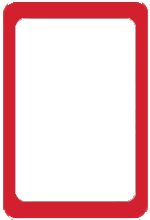
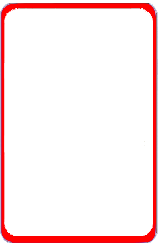
Add card border Fixed

diff --git a/Lisa.Quartets/Lisa.Quartets.Mobile/Views/CardBorderView.xaml b/Lisa.Quartets/Lisa.Quartets.Mobile/Views/CardBorderView.xaml
@@ -1,40 +1,165 @@
 <?xml version="1.0" encoding="UTF-8"?>
 <ContentPage xmlns="http://xamarin.com/schemas/2014/forms" xmlns:x="http://schemas.microsoft.com/winfx/2009/xaml" x:Class="Lisa.Quartets.Mobile.CardBorderView">
-	<ContentPage.Content>
-        <Grid Padding="5" x:Name="cardGrid">
-			<!--1st row-->
-			<BoxView WidthRequest="50" HeightRequest="100" Grid.Row="0" Grid.Column="0">
-			    <Image ClassId="card0"
-			    	Source="card.png">
-			   		<Image.GestureRecognizers>
-		    			<TapGestureRecognizer Tapped="OnImageClick" />
-		 			</Image.GestureRecognizers>
-			   	</Image>
-			</BoxView>
-			<BoxView WidthRequest="50" HeightRequest="100" Grid.Row="0" Grid.Column="1">
-			   	<Image ClassId="card1"
-			   		Source="card.png" >		
-			   		<Image.GestureRecognizers>
-		    			<TapGestureRecognizer Tapped="OnImageClick" />
-		 			</Image.GestureRecognizers> 
-			   	</Image>
-			</BoxView>
-			<BoxView WidthRequest="50" HeightRequest="100" Grid.Row="0" Grid.Column="2">
-			    <Image ClassId="card2" 
-			    	Source="card.png">		
-			   		<Image.GestureRecognizers>
-		    			<TapGestureRecognizer Tapped="OnImageClick" />
-		 			</Image.GestureRecognizers>
-			   	</Image>
-			</BoxView>
-			<BoxView WidthRequest="50" HeightRequest="100" Grid.Row="0" Grid.Column="3">
-			    <Image ClassId="card3" 
-			    	Source="card.png">		
-			   		<Image.GestureRecognizers>
-		    			<TapGestureRecognizer Tapped="OnImageClick" />
-		 			</Image.GestureRecognizers>
-			   	</Image>
-			</BoxView>
-		</Grid>
-	</ContentPage.Content>
+    <ContentPage.Content>
+        <Grid x:Name="cardGrid">
+            <!--1st row-->
+            <AbsoluteLayout HorizontalOptions="Center" Grid.Row="0" Grid.Column="0">
+                    <Image  ClassId="card0" Source="kaart1.png">
+                        <Image.GestureRecognizers>
+                            <TapGestureRecognizer Tapped="OnImageClick" />
+                        </Image.GestureRecognizers>
+                    </Image>
+            </AbsoluteLayout>
+
+            <AbsoluteLayout HorizontalOptions="Center" Grid.Row="0" Grid.Column="1">
+               
+                    <Image  ClassId="card1" Source="kaart1.png">
+                        <Image.GestureRecognizers>
+                            <TapGestureRecognizer Tapped="OnImageClick" />
+                        </Image.GestureRecognizers>
+                    </Image>
+                
+            </AbsoluteLayout>
+
+            <AbsoluteLayout HorizontalOptions="Center" Grid.Row="0" Grid.Column="2">
+               
+                    <Image  ClassId="card2" Source="kaart1.png">
+                        <Image.GestureRecognizers>
+                            <TapGestureRecognizer Tapped="OnImageClick" />
+                        </Image.GestureRecognizers>
+                    </Image>
+                
+            </AbsoluteLayout>
+
+            <AbsoluteLayout HorizontalOptions="Center" Grid.Row="0" Grid.Column="3">
+               
+                    <Image  ClassId="card3" Source="kaart1.png">
+                        <Image.GestureRecognizers>
+                            <TapGestureRecognizer Tapped="OnImageClick" />
+                        </Image.GestureRecognizers>
+                    </Image>
+                
+            </AbsoluteLayout>
+            <!--2nd row-->
+            <AbsoluteLayout HorizontalOptions="Center" Grid.Row="1" Grid.Column="0">
+               	
+                    <Image  ClassId="card4" Source="kaart1.png">
+                        <Image.GestureRecognizers>
+                            <TapGestureRecognizer Tapped="OnImageClick" />
+                        </Image.GestureRecognizers>
+                    </Image>
+                
+            </AbsoluteLayout>
+
+            <AbsoluteLayout HorizontalOptions="Center" Grid.Row="1" Grid.Column="1">
+               
+                    <Image  ClassId="card5" Source="kaart1.png">
+                        <Image.GestureRecognizers>
+                            <TapGestureRecognizer Tapped="OnImageClick" />
+                        </Image.GestureRecognizers>
+                    </Image>
+                
+            </AbsoluteLayout>
+
+            <AbsoluteLayout HorizontalOptions="Center" Grid.Row="1" Grid.Column="2">
+               
+                    <Image  ClassId="card6" Source="kaart1.png">
+                        <Image.GestureRecognizers>
+                            <TapGestureRecognizer Tapped="OnImageClick" />
+                        </Image.GestureRecognizers>
+                    </Image>
+                
+            </AbsoluteLayout>
+
+            <AbsoluteLayout HorizontalOptions="Center" Grid.Row="1" Grid.Column="3">
+               
+                    <Image  ClassId="card7" Source="kaart1.png">
+                        <Image.GestureRecognizers>
+                            <TapGestureRecognizer Tapped="OnImageClick" />
+                        </Image.GestureRecognizers>
+                    </Image>
+                
+            </AbsoluteLayout>
+            <!--3rd row-->
+            <AbsoluteLayout HorizontalOptions="Center" Grid.Row="2" Grid.Column="0">
+               
+                    <Image  ClassId="card8" Source="kaart1.png">
+                        <Image.GestureRecognizers>
+                            <TapGestureRecognizer Tapped="OnImageClick" />
+                        </Image.GestureRecognizers>
+                    </Image>
+                
+            </AbsoluteLayout>
+
+            <AbsoluteLayout HorizontalOptions="Center" Grid.Row="2" Grid.Column="1">
+               
+                    <Image  ClassId="card9" Source="kaart1.png">
+                        <Image.GestureRecognizers>
+                            <TapGestureRecognizer Tapped="OnImageClick" />
+                        </Image.GestureRecognizers>
+                    </Image>
+                
+            </AbsoluteLayout>
+
+            <AbsoluteLayout HorizontalOptions="Center" Grid.Row="2" Grid.Column="2">
+               
+                    <Image  ClassId="card10" Source="kaart1.png">
+                        <Image.GestureRecognizers>
+                            <TapGestureRecognizer Tapped="OnImageClick" />
+                        </Image.GestureRecognizers>
+                    </Image>
+                
+            </AbsoluteLayout>
+
+            <AbsoluteLayout HorizontalOptions="Center" Grid.Row="2" Grid.Column="3">
+               
+                    <Image  ClassId="card11" Source="kaart1.png">
+                        <Image.GestureRecognizers>
+                            <TapGestureRecognizer Tapped="OnImageClick" />
+                        </Image.GestureRecognizers>
+                    </Image>
+                
+            </AbsoluteLayout>
+            <!--4th row-->
+            <AbsoluteLayout HorizontalOptions="Center" Grid.Row="3" Grid.Column="0">
+               
+                    <Image  ClassId="card12" Source="kaart1.png">
+                        <Image.GestureRecognizers>
+                            <TapGestureRecognizer Tapped="OnImageClick" />
+                        </Image.GestureRecognizers>
+                    </Image>
+                
+            </AbsoluteLayout>
+
+            <AbsoluteLayout HorizontalOptions="Center" Grid.Row="3" Grid.Column="1">
+               
+                    <Image  ClassId="card13" Source="kaart1.png">
+                        <Image.GestureRecognizers>
+                            <TapGestureRecognizer Tapped="OnImageClick" />
+                        </Image.GestureRecognizers>
+                    </Image>
+                
+            </AbsoluteLayout>
+
+            <AbsoluteLayout HorizontalOptions="Center" Grid.Row="3" Grid.Column="2">
+               
+                    <Image  ClassId="card14" Source="kaart1.png">
+                        <Image.GestureRecognizers>
+                            <TapGestureRecognizer Tapped="OnImageClick" />
+                        </Image.GestureRecognizers>
+                    </Image>
+                
+            </AbsoluteLayout>
+
+            <AbsoluteLayout HorizontalOptions="Center" Grid.Row="3" Grid.Column="3">
+               
+                    <Image  ClassId="card15" Source="kaart1.png">
+                        <Image.GestureRecognizers>
+                            <TapGestureRecognizer Tapped="OnImageClick" />
+                        </Image.GestureRecognizers>
+                    </Image>
+                
+            </AbsoluteLayout>
+        </Grid>
+    </ContentPage.Content>
 </ContentPage>

diff --git a/Lisa.Quartets/Lisa.Quartets.Droid/Resources/Resource.Designer.cs b/Lisa.Quartets/Lisa.Quartets.Droid/Resources/Resource.Designer.cs
@@ -47,58 +47,64 @@ namespace Lisa.Quartets.Droid
 		{
 			
 			// aapt resource value: 0x7f020000
-			public const int card = 2130837504;
+			public const int border = 2130837504;
 			
 			// aapt resource value: 0x7f020001
-			public const int card1 = 2130837505;
+			public const int card = 2130837505;
 			
 			// aapt resource value: 0x7f020002
-			public const int card10 = 2130837506;
+			public const int card1 = 2130837506;
 			
 			// aapt resource value: 0x7f020003
-			public const int card11 = 2130837507;
+			public const int card10 = 2130837507;
 			
 			// aapt resource value: 0x7f020004
-			public const int card12 = 2130837508;
+			public const int card11 = 2130837508;
 			
 			// aapt resource value: 0x7f020005
-			public const int card13 = 2130837509;
+			public const int card12 = 2130837509;
 			
 			// aapt resource value: 0x7f020006
-			public const int card14 = 2130837510;
+			public const int card13 = 2130837510;
 			
 			// aapt resource value: 0x7f020007
-			public const int card15 = 2130837511;
+			public const int card14 = 2130837511;
 			
 			// aapt resource value: 0x7f020008
-			public const int card16 = 2130837512;
+			public const int card15 = 2130837512;
 			
 			// aapt resource value: 0x7f020009
-			public const int card2 = 2130837513;
+			public const int card16 = 2130837513;
 			
 			// aapt resource value: 0x7f02000a
-			public const int card3 = 2130837514;
+			public const int card2 = 2130837514;
 			
 			// aapt resource value: 0x7f02000b
-			public const int card4 = 2130837515;
+			public const int card3 = 2130837515;
 			
 			// aapt resource value: 0x7f02000c
-			public const int card5 = 2130837516;
+			public const int card4 = 2130837516;
 			
 			// aapt resource value: 0x7f02000d
-			public const int card6 = 2130837517;
+			public const int card5 = 2130837517;
 			
 			// aapt resource value: 0x7f02000e
-			public const int card7 = 2130837518;
+			public const int card6 = 2130837518;
 			
 			// aapt resource value: 0x7f02000f
-			public const int card8 = 2130837519;
+			public const int card7 = 2130837519;
 			
 			// aapt resource value: 0x7f020010
-			public const int card9 = 2130837520;
+			public const int card8 = 2130837520;
 			
 			// aapt resource value: 0x7f020011
-			public const int icon = 2130837521;
+			public const int card9 = 2130837521;
+			
+			// aapt resource value: 0x7f020012
+			public const int icon = 2130837522;
+			
+			// aapt resource value: 0x7f020013
+			public const int kaart1 = 2130837523;
 			
 			static Drawable()
 			{

diff --git a/Lisa.Quartets/Lisa.Quartets.Mobile/Views/CardBorderView.xaml.cs b/Lisa.Quartets/Lisa.Quartets.Mobile/Views/CardBorderView.xaml.cs
@@ -1,7 +1,8 @@
 using System;
 using System.Collections.Generic;
-using System.Linq;
+
 using Xamarin.Forms;
+using System.Linq;
 
 namespace Lisa.Quartets.Mobile
 {
@@ -26,18 +27,45 @@ namespace Lisa.Quartets.Mobile
 		private void OnImageClick(object sender, EventArgs args)
 		{	
 			var image = (Image) sender;
+			var parent = (AbsoluteLayout) image.Parent;
 
-			if (_selectedImages.Contains(image.ClassId))
+			if (IsSelected(image))
 			{
-				_selectedImages.Remove(image.ClassId);
-				image.BackgroundColor = Color.Transparent;
-
+				DeselectImage(image);
+				RemoveBorder(image);
 			}
 			else
 			{
-				_selectedImages.Add(image.ClassId);
-				image.BackgroundColor = Color.Red;
+				SelectImage(image);
+				AddBorder(image);
 			}
+		}
+
+		private bool IsSelected(Image image)
+		{
+			return _selectedImages.Contains(image.ClassId);
+		}
+
+		private void DeselectImage(Image image)
+		{
+			_selectedImages.Remove(image.ClassId);
+		}
+
+		private void SelectImage(Image image)
+		{
+			_selectedImages.Add(image.ClassId);
+		}
+
+		private void AddBorder(Image image)
+		{
+			var parent = (AbsoluteLayout) image.Parent;
+			parent.Children.Add(_checkmarks[image.ClassId]);
+		}
+
+		private void RemoveBorder(Image image)
+		{
+			var parent = (AbsoluteLayout) image.Parent;
+			parent.Children.Remove(_checkmarks[image.ClassId]);
 		}
 
 		private void SetImages()
@@ -46,25 +74,12 @@ namespace Lisa.Quartets.Mobile
 
 			foreach (var card in cards) 
 			{
-				System.Diagnostics.Debug.WriteLine(card.FileName);
+				_checkmarks.Add(card.Name, new Image { Source = ImageSource.FromFile("border.png")});
 			}
-
-			//			var count = 1;
-			//			foreach (var layoutImage in cardGrid.Children.OfType<Image>()) 
-			//			{
-			//				var cardImage = (Image)layoutImage;
-			//				var card = database.GetCard (count);
-			//
-			//				System.Diagnostics.Debug.WriteLine (card.FileName);
-			//
-			//				layoutImage.Source = card.FileName;
-			//
-			//				count++;
-			//			}
 		}
 
 		private CardDatabase _database = new CardDatabase();
 		private List<string> _selectedImages = new List<string>();
+		private Dictionary<string, Image> _checkmarks = new Dictionary<string, Image>();
 	}
 }
-
